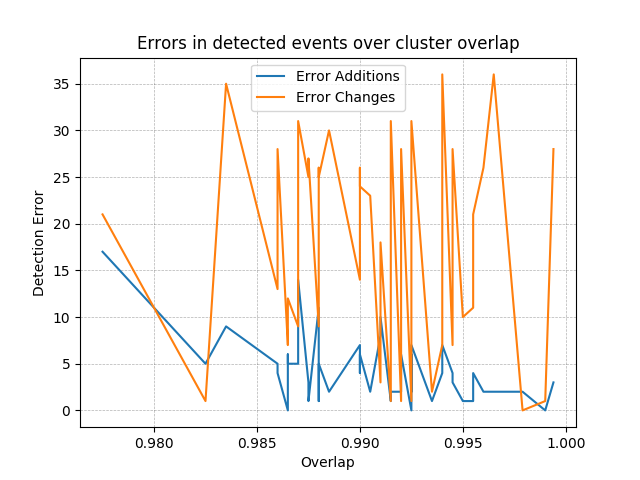
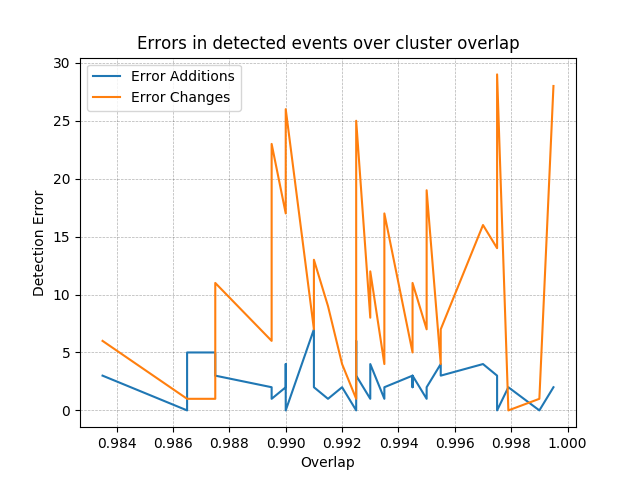
Use correct date field

diff --git a/app/data_processing/plots.py b/app/data_processing/plots.py
@@ -304,12 +304,12 @@ def plot_event_detection_by_date():
     fig = plt.figure(figsize=(15, 5))
 
     plt.subplot(1, 2, 1)
-    plt.plot(X, Y_pred_add_events, label="Detected")
-    plt.plot(X, Y_true_add_events, label="True")
+    plt.scatter(X, Y_pred_add_events, label="Detected")
+    plt.scatter(X, Y_true_add_events, label="True")
 
-    plt.gca().xaxis.set_major_formatter(mdates.DateFormatter("%d.%m"))
-    plt.gca().xaxis.set_major_locator(mdates.DayLocator())
-    plt.gcf().autofmt_xdate()
+    #plt.gca().xaxis.set_major_formatter(mdates.DateFormatter("%d.%m"))
+    #plt.gca().xaxis.set_major_locator(mdates.DayLocator())
+    #plt.gcf().autofmt_xdate()
 
     plt.xlabel("Time")
     plt.ylabel("Number of events")
@@ -319,8 +319,8 @@ def plot_event_detection_by_date():
 
     plt.subplot(1, 2, 2)
 
-    plt.plot(X, Y_pred_change_events, label="Detected")
-    plt.plot(X, Y_true_change_events, label="True")
+    plt.scatter(X, Y_pred_change_events, label="Detected")
+    plt.scatter(X, Y_true_change_events, label="True")
 
     plt.gca().xaxis.set_major_formatter(mdates.DateFormatter("%d.%m"))
     plt.gca().xaxis.set_major_locator(mdates.DayLocator())

diff --git a/app/data_processing/online_clustering.py b/app/data_processing/online_clustering.py
@@ -54,7 +54,7 @@ def cluster_news(news_articles):
         utils.convert_labels_to_cluster_identifier(
             labels, list(news_articles.index.values)
         ),
-        news_articles["date"].values[0],
+        news_articles["newspaper_publish_date"].values[0],
     )
 
 
